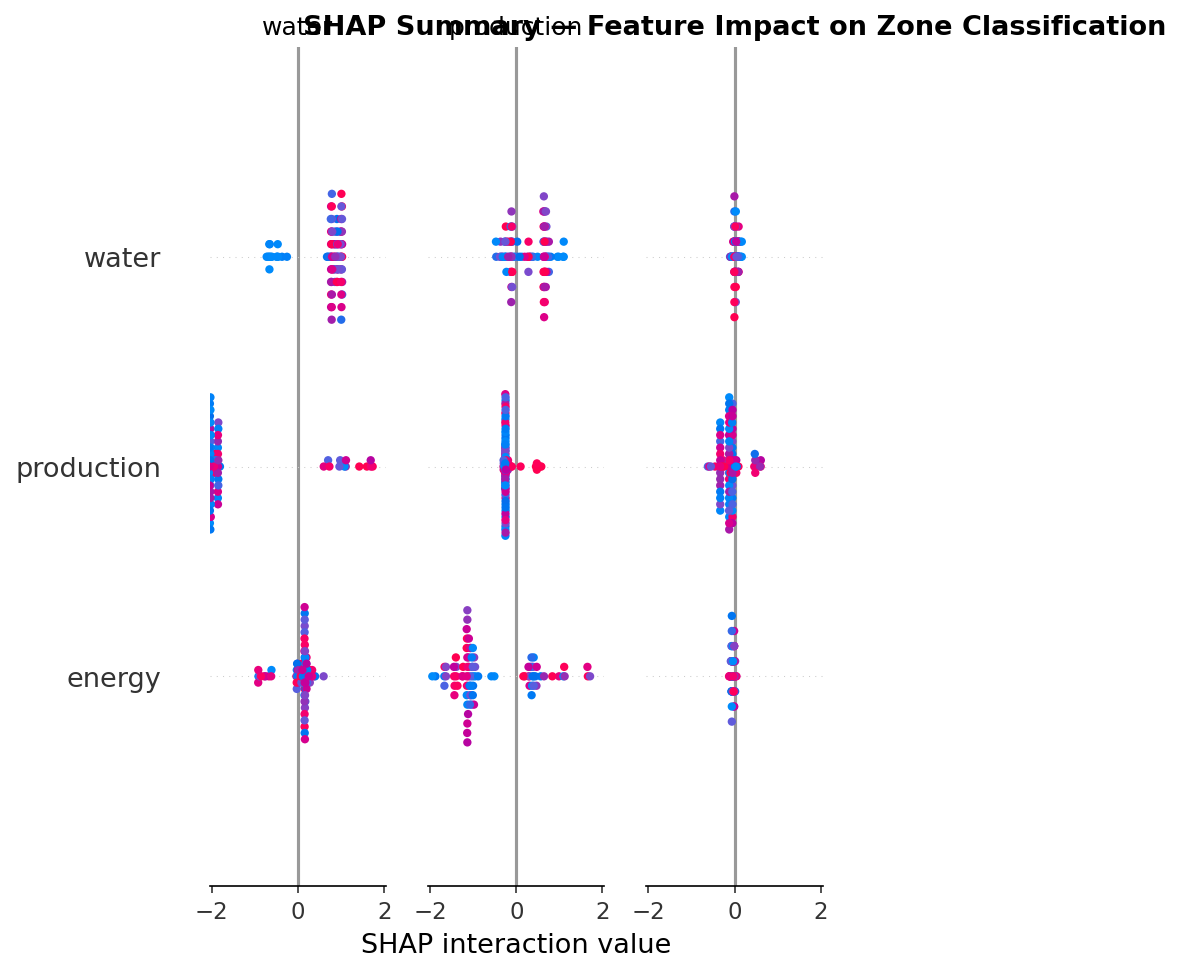
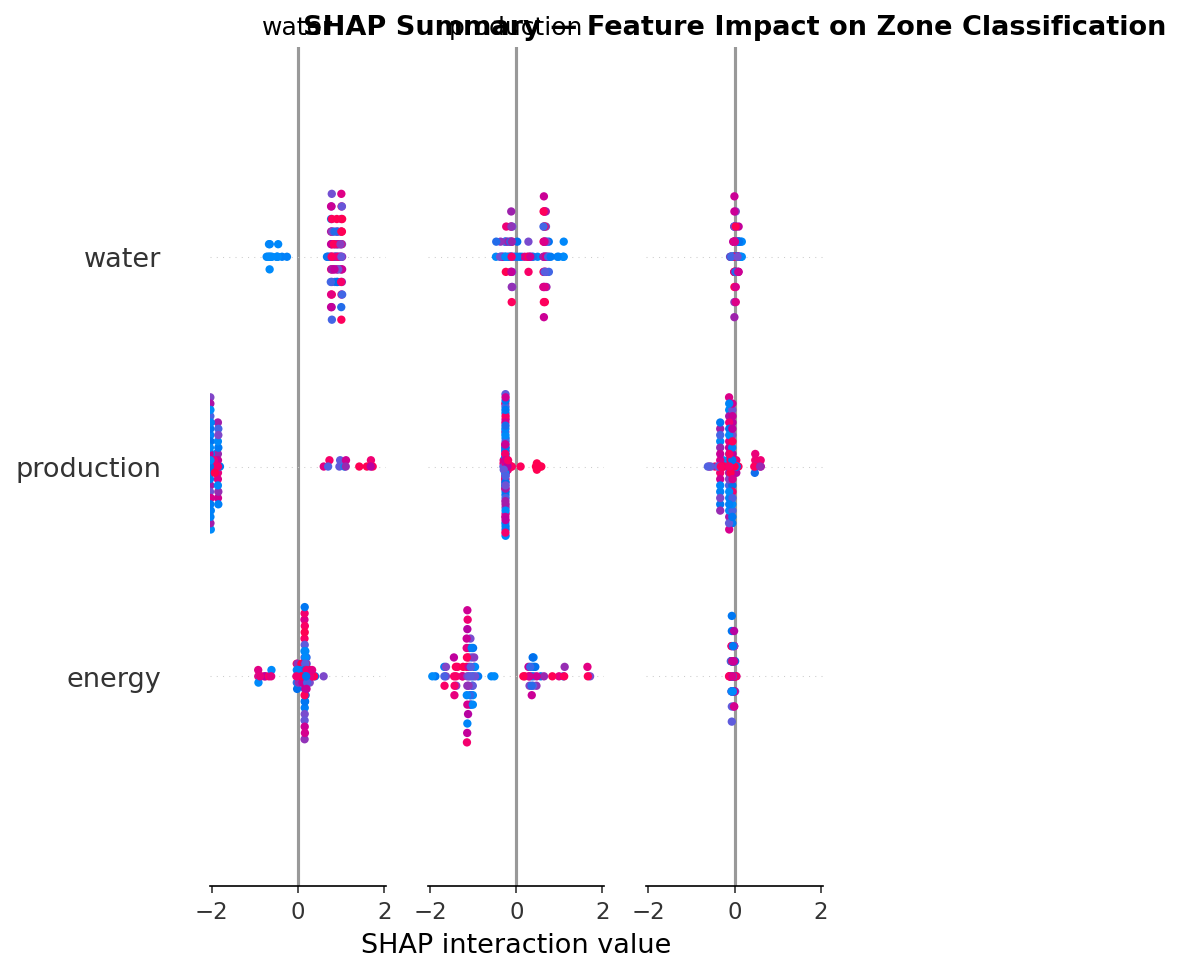
v2.0: Add XGBoost + SHAP ML layer, fix API key security

diff --git a/services/ml_engine.py b/services/ml_engine.py
@@ -241,7 +241,11 @@ def explain_prediction(model, encoders, scaler,
     # SHAP for this row
     explainer = shap.TreeExplainer(model)
     sv        = explainer.shap_values(x_scaled)   # shape: (n_classes, 1, n_features)
-    sv_pred   = sv[pred_class][0]
+    # sv shape can vary — handle safely
+    if isinstance(sv, list):
+        sv_pred = sv[pred_class][0] if pred_class < len(sv) else sv[0][0]
+    else:
+        sv_pred = sv[0]
 
     top_drivers = sorted(
         zip(FEATURES, sv_pred),
